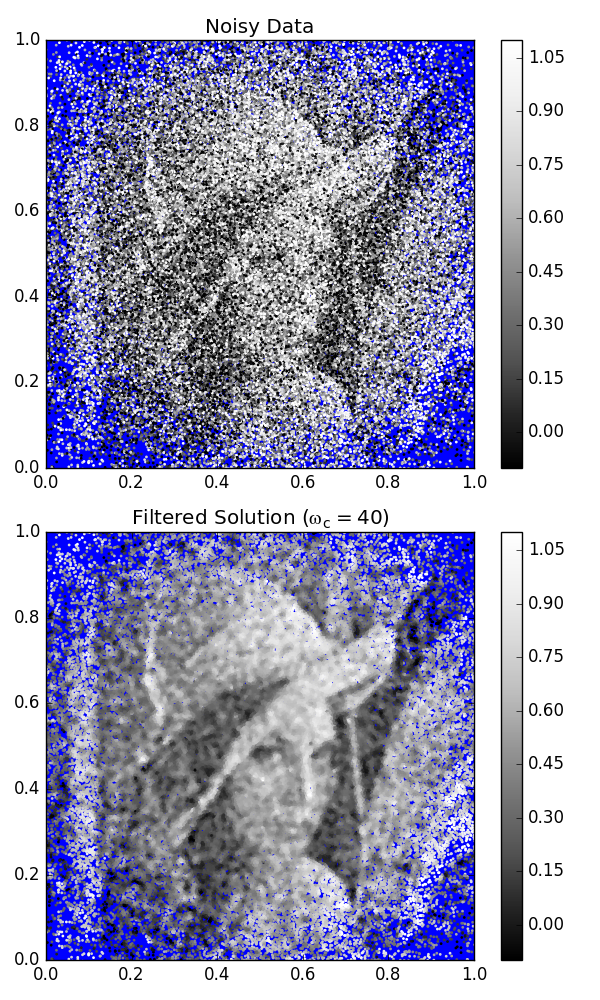
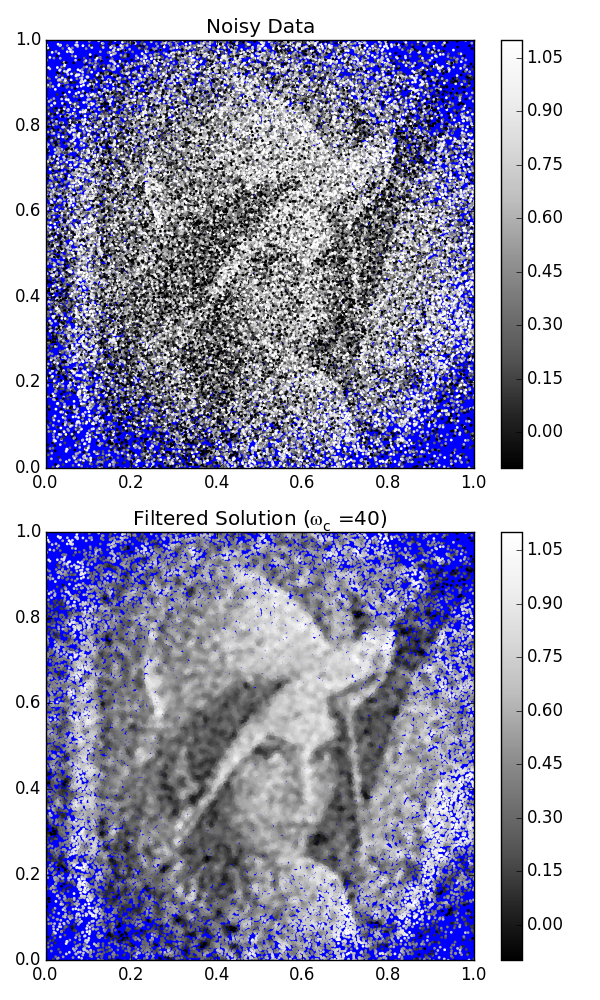
added more

diff --git a/docs/scripts/filter.a.py b/docs/scripts/filter.a.py
@@ -12,7 +12,7 @@ from scipy.misc import lena
 from scipy.interpolate import NearestNDInterpolator
 import matplotlib.pyplot as plt
 from rbf.filter import filter
-np.random.seed(2)
+np.random.seed(3)
 
 x = np.linspace(0.0,1.0,512)
 y = np.linspace(1.0,0.0,512)
@@ -26,7 +26,7 @@ signal = NearestNDInterpolator(points,values)
 points_obs = np.random.normal(0.5,0.25,(100000,2))
 u_obs = signal(points_obs) + np.random.normal(0.0,0.5,100000)
 # find filtered solution
-soln,sigma = filter(points_obs,u_obs,cutoff=40,size=12)
+soln,sigma = filter(points_obs,u_obs,cutoff=40,size=20)
 
 # plot the observed and filtered results
 fig,ax = plt.subplots(2,1,figsize=(6,10))

diff --git a/rbf/filter.py b/rbf/filter.py
@@ -17,7 +17,7 @@ import scipy.sparse.linalg as spla
 from scipy.spatial import cKDTree
 from rbf.interpolate import _in_hull
 import logging
-
+logger = logging.getLogger(__name__)
 
 class _IterativeVariance:
   ''' 

diff --git a/README.rst b/README.rst
@@ -1,10 +1,10 @@
 RBF
 ***
-Python package containing the tools necessary for radial basis
-function (RBF) applications.  Applications include
-interpolating/smoothing scattered data and solving PDEs over
-complicated domains.  The complete documentation for this package 
-can be found `here <http://rbf.readthedocs.io>`_.
+Python package containing the tools necessary for radial basis 
+function (RBF) applications.  Applications include 
+interpolating/smoothing scattered data and solving PDEs over irregular
+domains.  The complete documentation for this package can be found 
+`here <http://rbf.readthedocs.io>`_.
 
 Features
 --------
@@ -14,7 +14,7 @@ Features
   weights
 * RBF-FD Filtering for denoising **BIG**, scattered data
 * Node and stencil generation algorithms for solving PDEs over
-  complicated domains
+  irregular domains
 * Computational geometry functions for 1, 2, and 3 spatial dimensions
 
 Quick Demo

diff --git a/docs/source/index.rst b/docs/source/index.rst
@@ -7,10 +7,10 @@ RBF
 ***
 Python package containing the tools necessary for radial basis 
 function (RBF) applications.  Applications include 
-interpolating/smoothing scattered data and solving PDEs over 
-complicated domains.  The source code for this project can be found
-`here <http://www.github.com/treverhines/RBF>`_
-
+interpolating/smoothing scattered data and solving PDEs over irregular 
+domains. RBF is developed by Trever Hines (hinest@umich.edu), 
+University of Michigan, and the source code for this project can be 
+found `here <http://www.github.com/treverhines/RBF>`_
 
 Features
 --------
@@ -20,7 +20,7 @@ Features
   weights
 * RBF-FD Filtering for denoising **BIG**, scattered data
 * Node and stencil generation algorithms for solving PDEs over 
-  complicated domains
+  irregular domains
 * Computational geometry functions for 1, 2, and 3 spatial dimensions
 
 Table of Contents

diff --git a/docs/source/filter.rst b/docs/source/filter.rst
@@ -1,5 +1,5 @@
-Filters
--------
+Filter
+------
 .. automodule:: rbf.filter
   :members:
 
